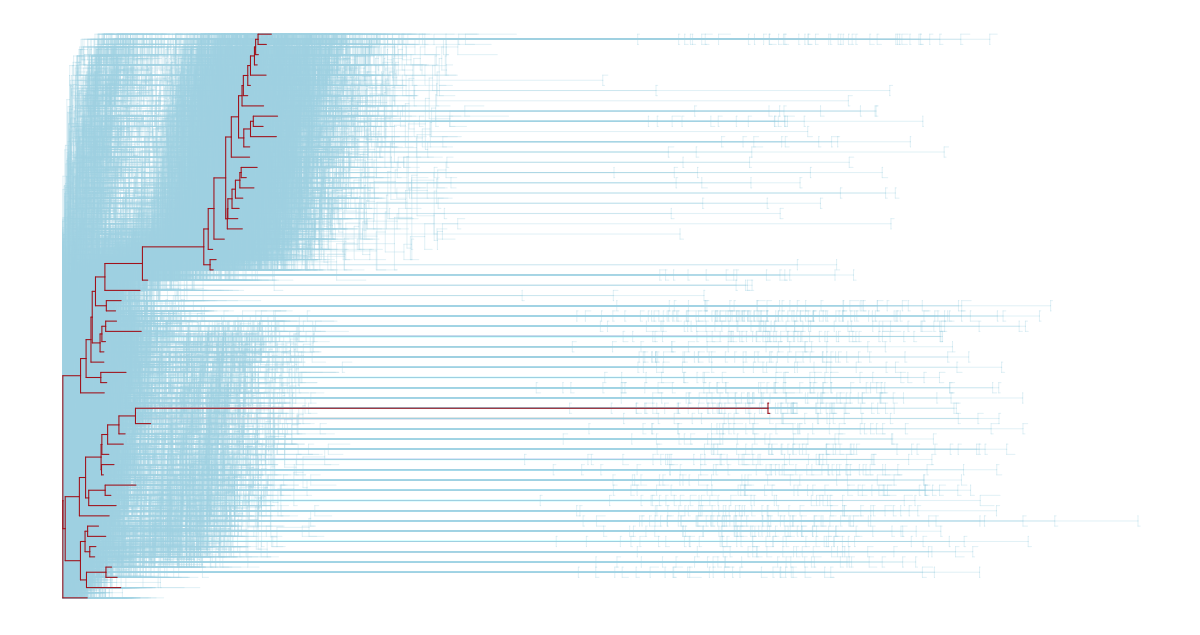
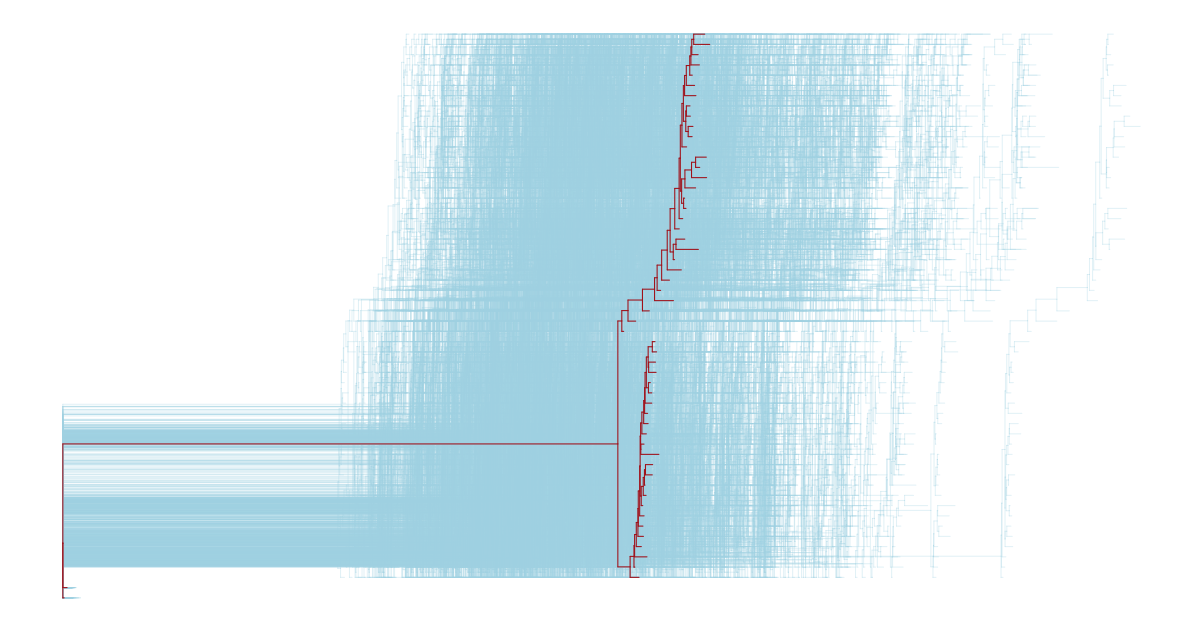
all qc 2

diff --git a/readme.md b/readme.md
@@ -87,7 +87,7 @@ Two runs of phylogenetic inferences were conducted with the entire chromosomal s
 
 **Gene Tree BigGene**
 
-![Figure 13](https://rawgit.com/Jcbnunez/phylobio_final_project/master/BG_treespace.png "Figure 13: Tree Space with branch lenght ")
+![Figure 13](https://rawgit.com/Jcbnunez/phylobio_final_project/master/BG_treespace2.png "Figure 13: Tree Space with branch lenght ")
 *Figure 13: Light blue, 10% of the tree space constructed for the neutral marker. Red, Best tree. 
 
 ![Figure 14](https://rawgit.com/Jcbnunez/phylobio_final_project/master/BG_posterior_QC.png "Figure 14: Big Gene Quality Control of Parameter Convergence")
